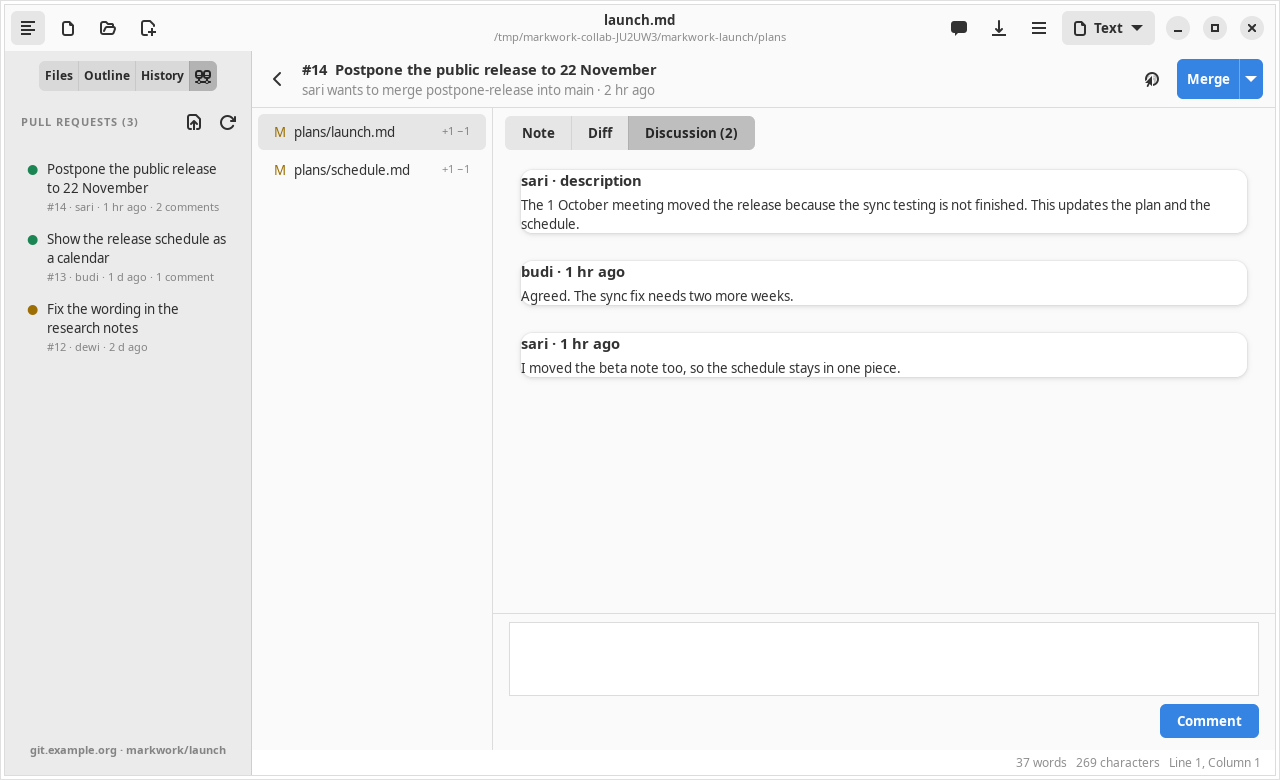
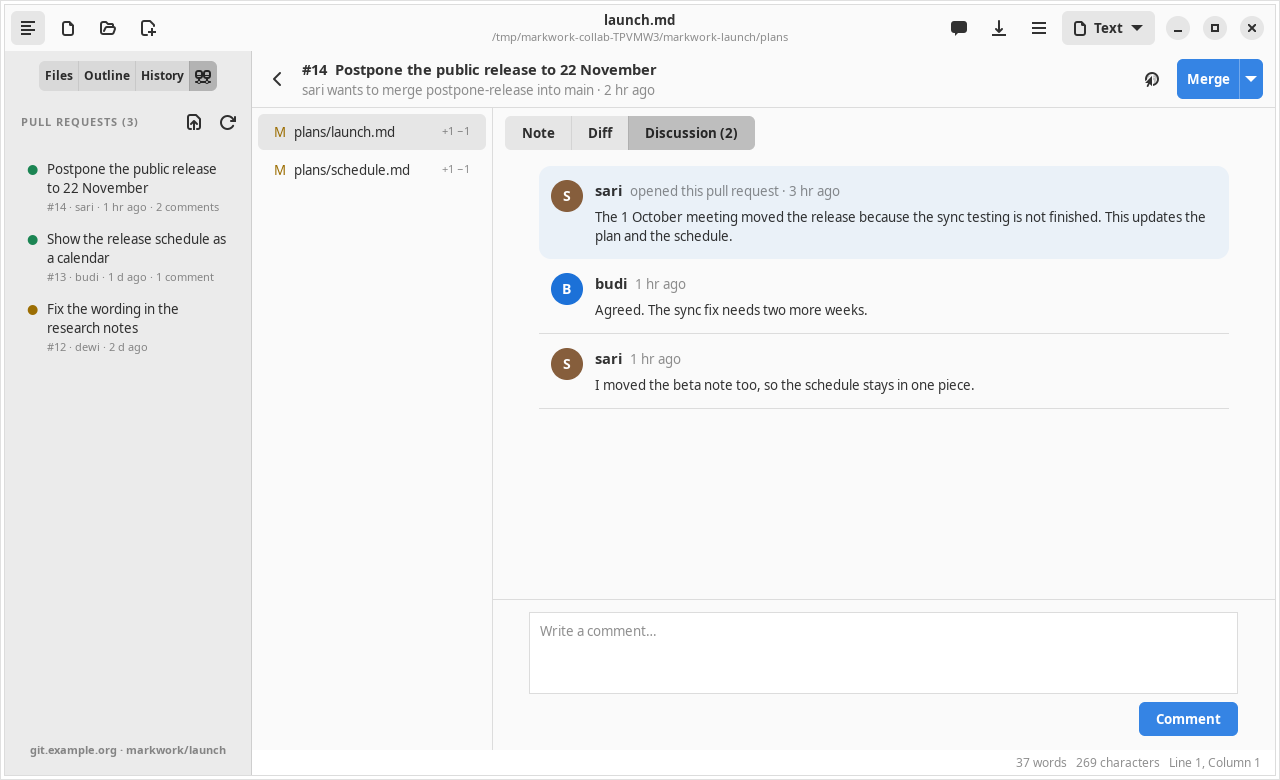
fix(collab): make the discussion easier to read
Each message is a row with the author's initial in a colored circle, the name in bold and the time
dimmed on one line, and the text under it; the description sits on a tinted background and the
messages after it are separated by a line. The thread keeps a readable width, and the comment box says
what it is for until something is typed. The screenshot and the GIF of the documentation are renewed.

diff --git a/src/ui/pullview.ts b/src/ui/pullview.ts
@@ -115,20 +115,28 @@ export class PullView {
         this.pages = new Gtk.Stack({ vexpand: true, hexpand: true });
         this.pages.add_named(new Gtk.ScrolledWindow({ child: this.diffView }), 'diff');
         this.pages.add_named(this.message, 'message');
-        this.thread = new Gtk.Box({ orientation: Gtk.Orientation.VERTICAL, spacing: 12, margin_top: 4, margin_bottom: 12, margin_start: 16, margin_end: 16 });
-        this.commentBox = new Gtk.TextView({ wrap_mode: Gtk.WrapMode.WORD_CHAR, accepts_tab: false, left_margin: 8, right_margin: 8, top_margin: 6, bottom_margin: 6 });
+        this.thread = new Gtk.Box({ orientation: Gtk.Orientation.VERTICAL, margin_top: 8, margin_bottom: 16, margin_start: 16, margin_end: 16 });
+        this.commentBox = new Gtk.TextView({ wrap_mode: Gtk.WrapMode.WORD_CHAR, accepts_tab: false, left_margin: 10, right_margin: 10, top_margin: 8, bottom_margin: 8 });
         this.commentBox.update_property([Gtk.AccessibleProperty.LABEL], [_('Write a comment…')]);
-        const commentScroll = new Gtk.ScrolledWindow({ hscrollbar_policy: Gtk.PolicyType.NEVER, has_frame: true, min_content_height: 72, max_content_height: 160, propagate_natural_height: true, child: this.commentBox });
+        const commentScroll = new Gtk.ScrolledWindow({ hscrollbar_policy: Gtk.PolicyType.NEVER, has_frame: true, min_content_height: 80, max_content_height: 180, propagate_natural_height: true, child: this.commentBox });
+        // A text view has no placeholder of its own: a label over it says what the box is for until something is typed.
+        const hint = new Gtk.Label({ label: _('Write a comment…'), xalign: 0, yalign: 0, can_target: false, margin_start: 11, margin_top: 9, halign: Gtk.Align.START, valign: Gtk.Align.START });
+        hint.add_css_class('dim-label');
+        this.commentBox.buffer.connect('changed', () => hint.set_visible(this.commentText === ''));
+        const commentField = new Gtk.Overlay({ child: commentScroll });
+        commentField.add_overlay(hint);
         this.commentButton = new Gtk.Button({ label: _('Comment'), halign: Gtk.Align.END });
         this.commentButton.add_css_class('suggested-action');
         this.commentButton.connect('clicked', () => { if (this.commentText) this.onComment(this.commentText); });
-        const compose = new Gtk.Box({ orientation: Gtk.Orientation.VERTICAL, spacing: 8, margin_top: 8, margin_bottom: 12, margin_start: 16, margin_end: 16 });
-        compose.append(commentScroll);
+        const compose = new Gtk.Box({ orientation: Gtk.Orientation.VERTICAL, spacing: 8, margin_top: 12, margin_bottom: 14 });
+        compose.append(commentField);
         compose.append(this.commentButton);
+        const composeClamp = new Adw.Clamp({ maximum_size: 760, tightening_threshold: 600, margin_start: 16, margin_end: 16, child: compose });
+        const threadClamp = new Adw.Clamp({ maximum_size: 760, tightening_threshold: 600, child: this.thread });
         this.discussion = new Gtk.Box({ orientation: Gtk.Orientation.VERTICAL });
-        pack(this.discussion, new Gtk.ScrolledWindow({ hscrollbar_policy: Gtk.PolicyType.NEVER, child: this.thread }), true);
+        pack(this.discussion, new Gtk.ScrolledWindow({ hscrollbar_policy: Gtk.PolicyType.NEVER, child: threadClamp }), true);
         this.discussion.append(new Gtk.Separator());
-        this.discussion.append(compose);
+        this.discussion.append(composeClamp);
         this.pages.add_named(this.discussion, 'discussion');
         this.pages.visible_child_name = 'message';
         const right = new Gtk.Box({ orientation: Gtk.Orientation.VERTICAL, hexpand: true });
@@ -300,15 +308,36 @@ export class PullView {
         for (const entry of entries) this.thread.append(this.commentCard(entry.author, entry.body, entry.time, now, entry.description));
     }
 
+    // One message: the author's initial in a colored circle, the name and the time on one line, then the text. The description
+    // sits on a tinted background; the messages after it are told apart by a line.
     private commentCard(author: string, body: string, time: string, now: number, description: boolean): Gtk.Widget {
-        const head = new Gtk.Label({ label: description ? fmt(_('{author} · description'), { author }) : `${author} · ${relativeTime(Date.parse(time) / 1000, now)}`, xalign: 0 });
-        head.add_css_class('heading');
-        const text = new Gtk.Label({ label: body, xalign: 0, wrap: true, wrap_mode: Pango.WrapMode.WORD_CHAR, selectable: true, focusable: false, max_width_chars: 80 });
-        const card = new Gtk.Box({ orientation: Gtk.Orientation.VERTICAL, spacing: 4, margin_top: 8, margin_bottom: 8, margin_start: 12, margin_end: 12 });
-        card.add_css_class('card');
-        card.append(head);
-        card.append(text);
-        return card;
+        const ago = relativeTime(Date.parse(time) / 1000, now);
+        const initial = (Array.from(author.trim())[0] ?? '?').toUpperCase();
+        const avatar = new Gtk.Label({ label: initial, valign: Gtk.Align.START, halign: Gtk.Align.START, width_request: 32, height_request: 32 });
+        avatar.add_css_class('pull-avatar');
+        avatar.add_css_class(`pull-avatar-${Array.from(author).reduce((sum, ch) => sum + ch.codePointAt(0)!, 0) % 6}`);
+        const name = new Gtk.Label({ label: author, xalign: 0 });
+        name.add_css_class('heading');
+        const when = new Gtk.Label({ label: description ? fmt(_('opened this pull request · {time}'), { time: ago }) : ago, xalign: 0 });
+        when.add_css_class('dim-label');
+        const head = new Gtk.Box({ spacing: 8 });
+        head.append(name);
+        head.append(when);
+        const text = new Gtk.Label({ label: body, xalign: 0, wrap: true, wrap_mode: Pango.WrapMode.WORD_CHAR, selectable: true, focusable: false, hexpand: true });
+        const column = new Gtk.Box({ orientation: Gtk.Orientation.VERTICAL, spacing: 6, hexpand: true });
+        column.append(head);
+        column.append(text);
+        const row = new Gtk.Box({ spacing: 12, margin_top: 14, margin_bottom: 14, margin_start: 12, margin_end: 12 });
+        row.append(avatar);
+        row.append(column);
+        const entry = new Gtk.Box({ orientation: Gtk.Orientation.VERTICAL });
+        if (description) entry.add_css_class('pull-description');
+        entry.append(row);
+        // A line under every message but the description, which has its own background.
+        const wrapper = new Gtk.Box({ orientation: Gtk.Orientation.VERTICAL });
+        wrapper.append(entry);
+        if (!description) wrapper.append(new Gtk.Separator());
+        return wrapper;
     }
 
     // A comment is being sent; it stays in the box until the forge has taken it.

diff --git a/tests/gui/collab.ts b/tests/gui/collab.ts
@@ -276,9 +276,10 @@ export function collabTests(c: GuiContext): void {
         view.discussionButton.set_active(true);
         eq(view.showingDiscussion, true);
         const text = descendants(view.discussion).filter((x): x is Gtk.Label => x instanceof Gtk.Label).map(l => l.get_label()).join('\n');
-        contains(text, 'budi · description');
+        contains(text, 'budi');
+        contains(text, 'opened this pull request');
         contains(text, 'Adds the calendar layout for the Agenda.');
-        contains(text, 'sari · ');
+        contains(text, 'sari');
         contains(text, 'Tried it on my machine');
         view.commentBox.buffer.set_text('  Thanks, merging after lunch.  ', -1);
         settle(w.pulls.comment(view.commentText));
@@ -286,7 +287,7 @@ export function collabTests(c: GuiContext): void {
         eq(view.discussionButton.get_label(), 'Discussion (2)');
         eq(view.commentText, '');
         eq(view.commentButton.get_sensitive(), true);
-        contains(descendants(view.discussion).filter((x): x is Gtk.Label => x instanceof Gtk.Label).map(l => l.get_label()).join('\n'), 'eka · ');
+        contains(descendants(view.discussion).filter((x): x is Gtk.Label => x instanceof Gtk.Label).map(l => l.get_label()).join('\n'), 'eka');
         posts.length = 0;
     });
 

diff --git a/src/ui/theme.ts b/src/ui/theme.ts
@@ -43,6 +43,10 @@ const buildCss = (p: Palette): string => `
     .side-drop { background-color: alpha(@accent_bg_color, 0.25); }
     .sidebar-tabs button { padding: 3px 6px; min-width: 0; font-size: 12px; }
     .side-meta { font-size: 11px; color: alpha(currentColor, 0.55); }
+    .pull-avatar { border-radius: 50%; color: white; font-weight: bold; font-size: 14px; }
+    .pull-avatar-0 { background-color: @blue_4; } .pull-avatar-1 { background-color: @green_5; } .pull-avatar-2 { background-color: @orange_5; }
+    .pull-avatar-3 { background-color: @purple_4; } .pull-avatar-4 { background-color: @red_4; } .pull-avatar-5 { background-color: @brown_4; }
+    .pull-description { background-color: alpha(@accent_bg_color, 0.08); border-radius: 12px; }
     .chat-input, .chat-input text { background-color: @view_bg_color; color: @view_fg_color; font-size: 13px; }
     .chat-composer { background-color: @view_bg_color; border: 1px solid alpha(currentColor, 0.15); border-radius: 12px; }
     .chat-composer:focus-within { outline: 2px solid alpha(@accent_color, 0.5); outline-offset: -1px; }
